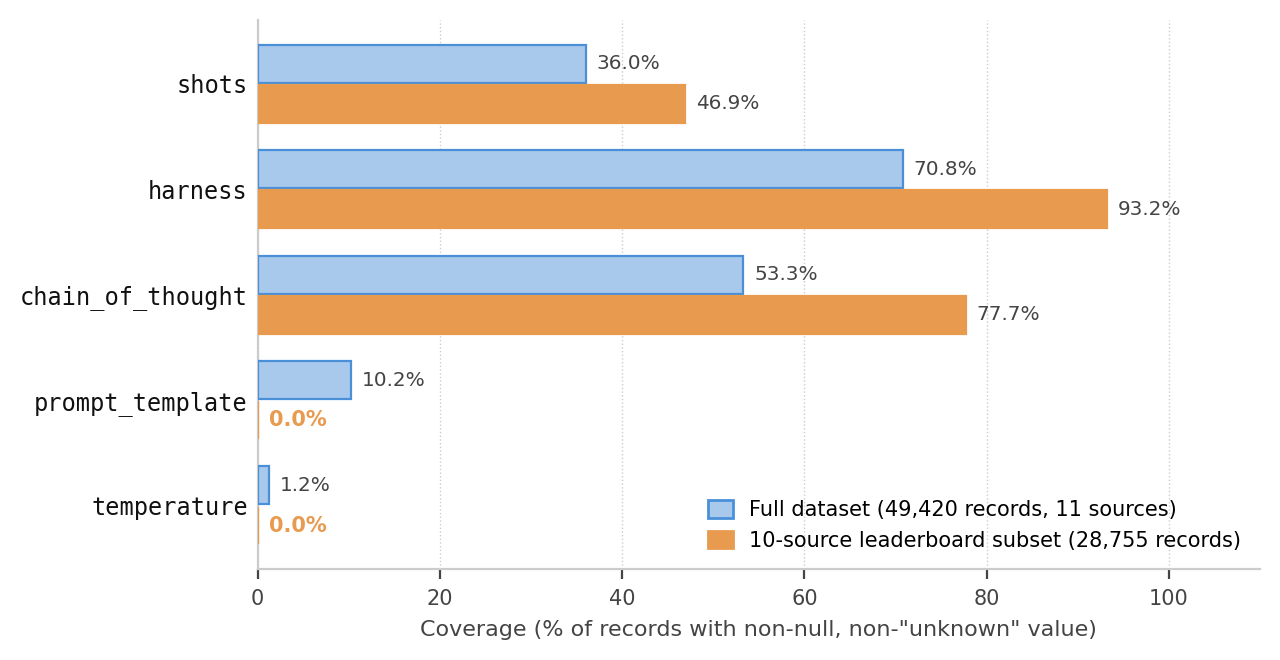
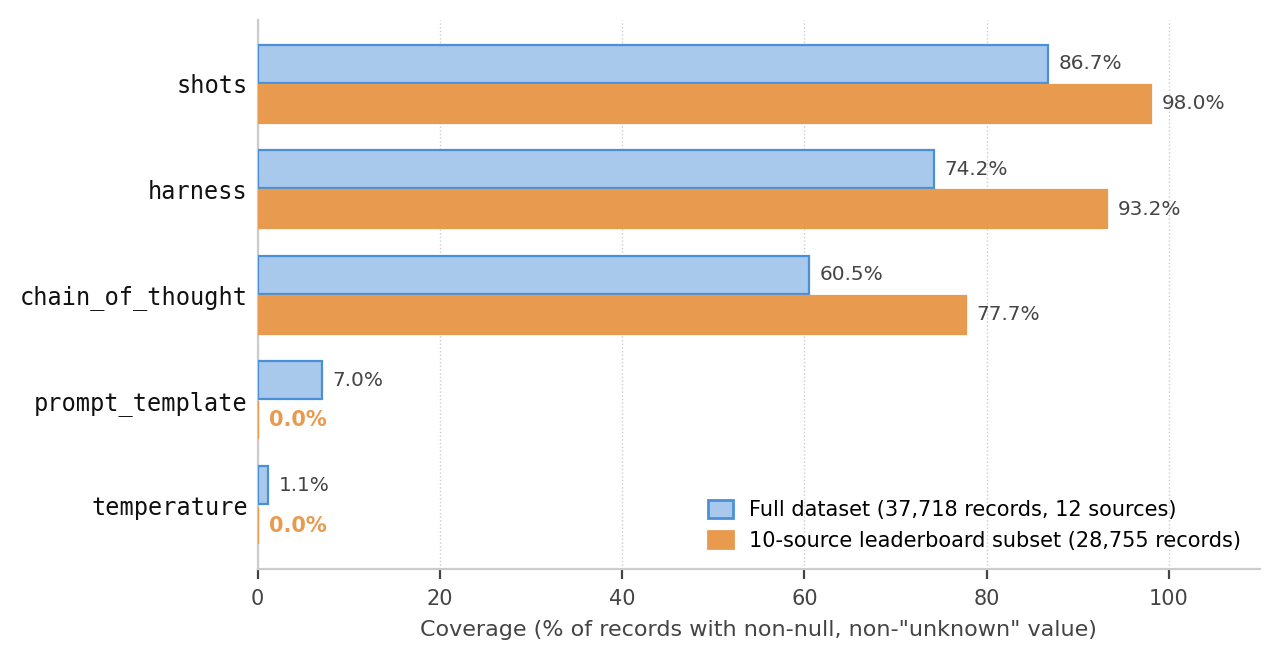
Make Figure 6 (coverage) reproducible from paper_numbers.json
- coverage_bars.py loads coverage + totals from analysis_output/paper_numbers.json
  instead of hard-coded values; legend no longer says stale 49,420/11 sources
- Regenerate coverage_bars.pdf/png with canonical numbers (37,718 / 12 sources)

diff --git a/LLM_Evaluation_Report/figures/scripts/coverage_bars.py b/LLM_Evaluation_Report/figures/scripts/coverage_bars.py
@@ -7,6 +7,7 @@ Visual takeaway: harness, prompt_template, and temperature have zero valid
 coverage in the 10-source leaderboard subset (bars flush at 0).
 """
 
+import json
 import os
 import matplotlib
 matplotlib.use("Agg")
@@ -16,6 +17,9 @@ import matplotlib.patches as mpatches
 SCRIPT_DIR = os.path.dirname(os.path.abspath(__file__))
 OUT_DIR    = os.path.join(SCRIPT_DIR, "..")
 OUT_PATH   = os.path.join(OUT_DIR, "coverage_bars.pdf")
+# Single source of truth: regenerate via `python reproduce_paper.py`.
+PAPER_NUMBERS = os.path.join(SCRIPT_DIR, "..", "..", "..",
+                             "analysis_output", "paper_numbers.json")
 
 BLUE_HDR   = "#4A90D9"
 BLUE_LIGHT = "#A8C8EC"
@@ -27,18 +31,20 @@ BLACK      = "#111111"
 SANS       = "DejaVu Sans"
 MONO       = "DejaVu Sans Mono"
 
-# (field, full_dataset_%, leaderboard_subset_%) — ordered bottom-to-top
+# (field, full_dataset_%, leaderboard_subset_%) — ordered bottom-to-top.
+# Loaded from analysis_output/paper_numbers.json so the figure always matches
+# the paper's coverage table (regenerate both via `python reproduce_paper.py`).
+with open(PAPER_NUMBERS, encoding="utf-8") as _fh:
+    _PN = json.load(_fh)
+_COV = _PN["coverage"]
+_DS = _PN["dataset"]
 FIELDS = [
-    # Values regenerated 2026-05-24 from analysis_output/coverage_stats.csv
-    # after re-extracting the ArXiv source with the per-benchmark pipeline.
-    # Full = arxiv + 10 leaderboards + papers_with_code (43,788 records);
-    # 10-source LB subset = 28,755 records.
-    ("temperature",       1.2,   0.0),
-    ("prompt_template",  10.2,   0.0),
-    ("chain_of_thought", 53.3,  77.7),
-    ("harness",          70.8,  93.2),
-    ("shots",            36.0,  46.9),
+    (name, _COV["full_dataset"][name], _COV["leaderboard_subset"][name])
+    for name in ("temperature", "prompt_template", "chain_of_thought", "harness", "shots")
 ]
+TOTAL_RECORDS = _DS["total_records"]
+SUBSET_RECORDS = _DS["leaderboard_subtotal"]["records"]
+N_SOURCES = len(_DS["per_source"])
 
 fig, ax = plt.subplots(figsize=(6.5, 3.4), facecolor=WHITE)
 
@@ -90,9 +96,9 @@ ax.grid(axis="x", linestyle=":", color=MGREY, linewidth=0.5, zorder=1)
 ax.set_axisbelow(True)
 
 legend_full = mpatches.Patch(facecolor=BLUE_LIGHT, edgecolor=BLUE_HDR,
-                             label="Full dataset (49,420 records, 11 sources)")
+                             label=f"Full dataset ({TOTAL_RECORDS:,} records, {N_SOURCES} sources)")
 legend_sub  = mpatches.Patch(facecolor=ORNG_HDR, edgecolor=ORNG_HDR,
-                             label="10-source leaderboard subset (28,755 records)")
+                             label=f"10-source leaderboard subset ({SUBSET_RECORDS:,} records)")
 ax.legend(handles=[legend_full, legend_sub],
           loc="lower right", fontsize=7.5, frameon=False,
           handlelength=1.2, handleheight=0.9, borderpad=0.4)
